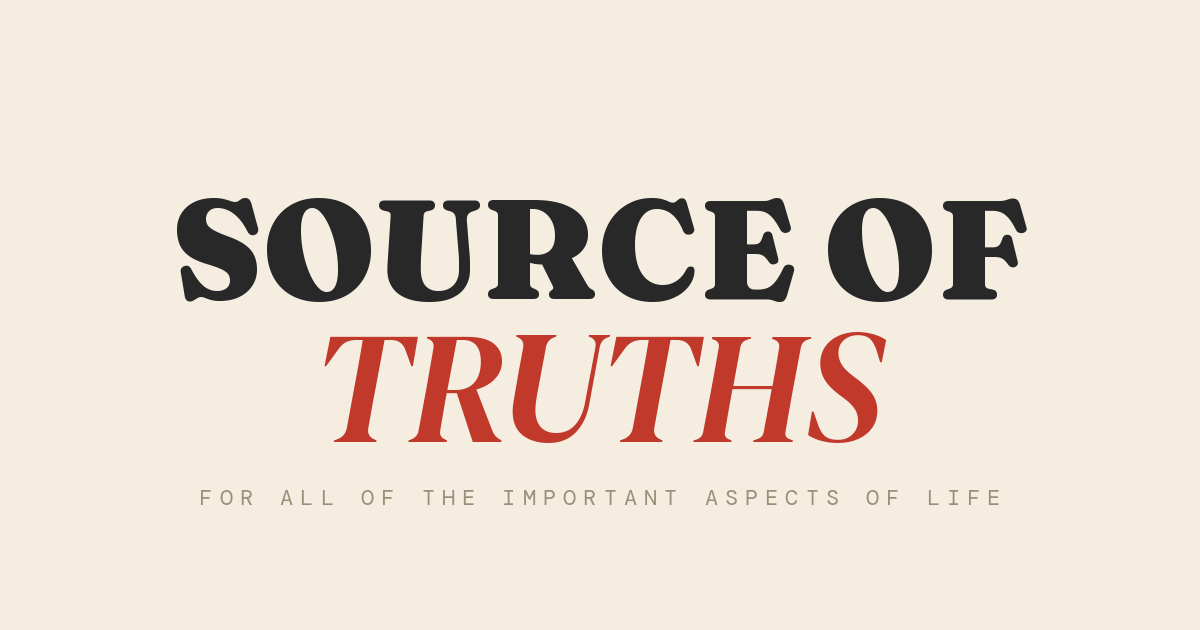
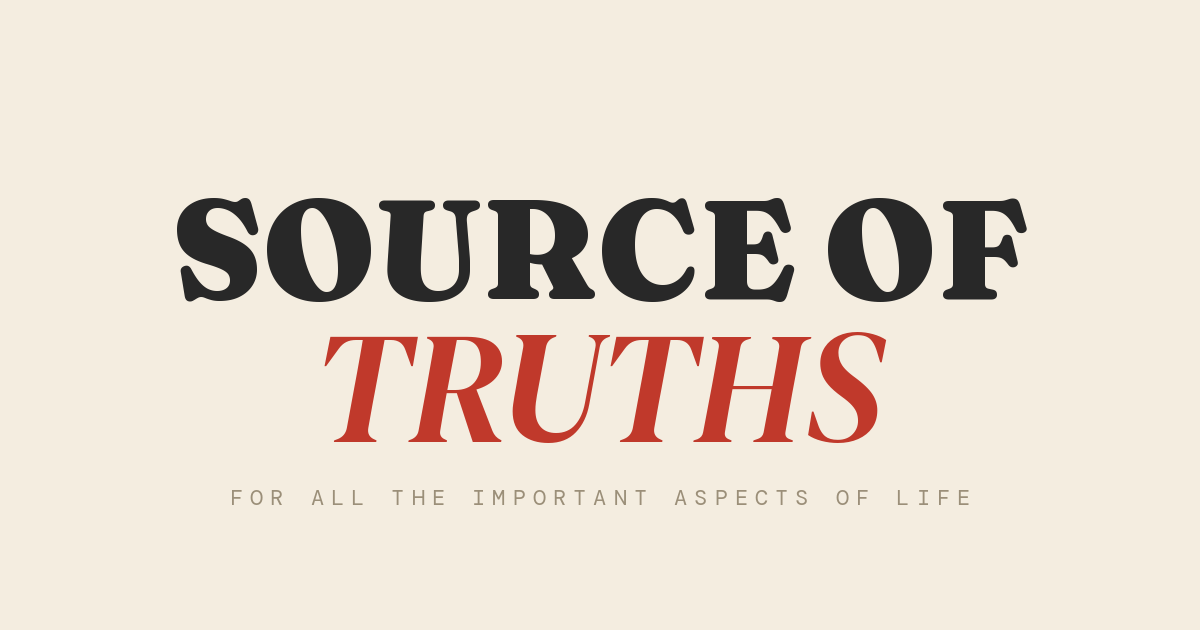
Tagline -> 'For All the Important Aspects of Life'; loading text 'seeking truths...'; refresh home OG previews

Changed region(s): [[0.185, 0.754, 0.8325, 0.8143]]

diff --git a/app/layout.js b/app/layout.js
@@ -5,17 +5,17 @@ import { Analytics } from '@vercel/analytics/next';
 
 export const metadata = {
   metadataBase: new URL('https://sourceoftruths.com'),
-  title: 'Source of Truths | For All of the Important Aspects of Life',
+  title: 'Source of Truths | For All the Important Aspects of Life',
   description: 'Curated top-ten lists ranked by expert consensus and reader votes. From dive bars to luxury resorts, discover what we all agree on.',
   openGraph: {
-    title: 'Source of Truths | For All of the Important Aspects of Life',
+    title: 'Source of Truths | For All the Important Aspects of Life',
     description: 'Curated top-ten lists ranked by expert consensus and reader votes. From dive bars to luxury resorts, discover what we all agree on.',
     url: 'https://sourceoftruths.com',
     type: 'website',
   },
   twitter: {
     card: 'summary_large_image',
-    title: 'Source of Truths | For All of the Important Aspects of Life',
+    title: 'Source of Truths | For All the Important Aspects of Life',
     description: 'Curated top-ten lists ranked by expert consensus and reader votes.',
   },
   appleWebApp: {
@@ -42,7 +42,7 @@ const websiteJsonLd = {
   '@context': 'https://schema.org',
   '@type': 'WebSite',
   name: 'Source of Truths',
-  alternateName: 'Source of Truths | For All of the Important Aspects of Life',
+  alternateName: 'Source of Truths | For All the Important Aspects of Life',
   url: 'https://sourceoftruths.com',
   description: 'Curated top-ten lists ranked by expert consensus and reader votes. From dive bars to luxury resorts, discover what we all agree on.',
 };

diff --git a/scripts/generate-og-images.js b/scripts/generate-og-images.js
@@ -288,8 +288,8 @@ function createHomepageImageSVG() {
   <!-- gurus text in red italic -->
   <text x="600" y="290" font-family="Georgia, serif" font-size="85" font-style="italic" fill="#c0392b" text-anchor="middle" letter-spacing="2">gurus</text>
   
-  <!-- Tagline - "For All of the Important Aspects of Life" -->
-  <text x="600" y="350" font-family="Arial, sans-serif" font-size="18" fill="#282828" text-anchor="middle">For All of the Important Aspects of Life</text>
+  <!-- Tagline - "For All the Important Aspects of Life" -->
+  <text x="600" y="350" font-family="Arial, sans-serif" font-size="18" fill="#282828" text-anchor="middle">For All the Important Aspects of Life</text>
   
   <!-- Bottom decorative line -->
   <line x1="50" y1="520" x2="1150" y2="520" stroke="#282828" stroke-width="1"/>

diff --git a/app/HomeClient.jsx b/app/HomeClient.jsx
@@ -295,7 +295,7 @@ function Home({ lists, viewCounts, voteData, extras, trending = {}, openList, on
             color: COLORS.ink,
           }}
         >
-          For All of the Important Aspects of Life
+          For All the Important Aspects of Life
         </p>
         <div
           style={{
@@ -843,7 +843,7 @@ export default function HomeClient() {
             color: COLORS.faded,
           }}
         >
-          gathering consensus
+          seeking truths...
         </div>
       ) : (
         <Home
